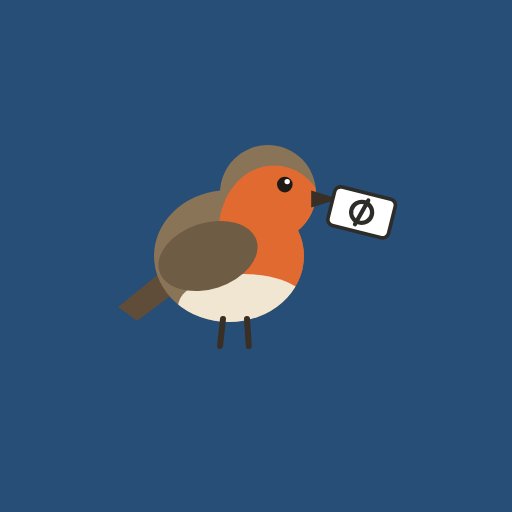
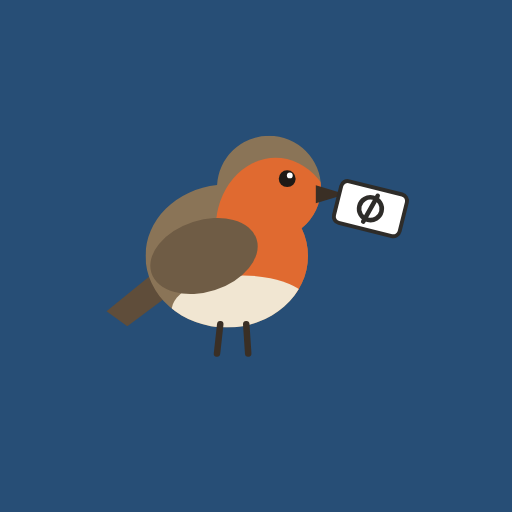
Icona ritagliabile: pettirosso leggermente più grande (scala 0,65)

diff --git a/docs/2026-11-07-icona-ritagliabile.md b/docs/2026-11-07-icona-ritagliabile.md
@@ -76,3 +76,10 @@ Queste cose vanno provate sulla stampante. Per ora `browser` corregge solo l'ico
   - il test controlla il cerchio di raggio 30,5 %;
   - `anteprima-ritagli.png` simula il taglio di Android.
 - **Da verificare di nuovo sul Pixel:** togliere e rimettere l'icona.
+
+## Pettirosso un po' più grande (2026-11-07)
+
+- **Risultato sul Pixel con la scala 0,6:** etichetta e coda intere. L'utente chiede il pettirosso leggermente più grande.
+- **Nuova scala 0,65** (`translate(87 61) scale(0.65)`): il disegno arriva al 32 % circa del raggio. Il ritaglio a cerchio di Android mostra fino al 33,3 %.
+- **Cosa si perde:** si esce di poco dalla zona sicura teorica del 30,5 %. Su un launcher che ritaglia più stretto, o durante le animazioni, la punta dell'etichetta potrebbe sfiorare il bordo. È una scelta accettata per avere il pettirosso più grande.
+- **Test:** controlla il raggio del 32,5 %.
